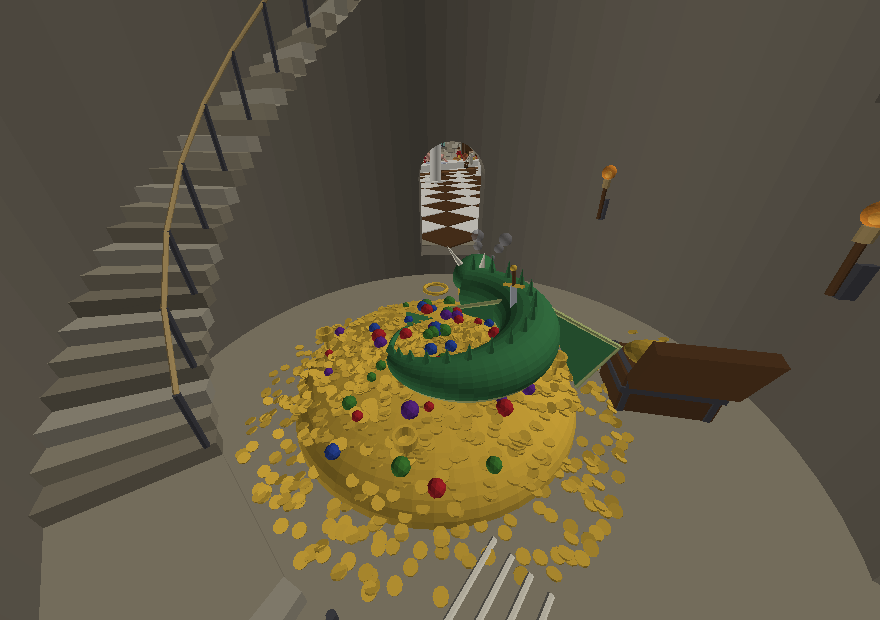
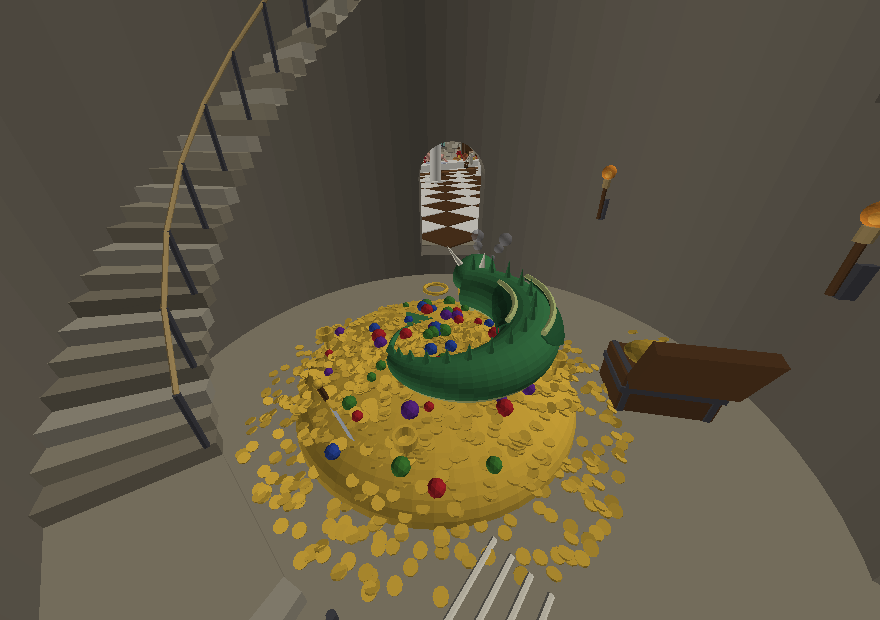
The castle walked through again: stairs that reach the top, stone guards, tidy roofs
- The donjon's floors left their stairwell open again: the inner rim of
  the opening ran the wrong way round, a bow-tie that closed the hole.
- Tower tops: the iron rail across the stair's way out is gone; where
  the platform ends above a two-metre drop a low wall of the tower's own
  stone guards the edge -- round the donjon's lookout stairwell too.
- Attic: the boards are sawn round the stairwell and the towers, the
  stair's top step ends at the floor's edge, and the rail guards the
  deep end of the opening instead of barring the way in.
- Gate towers: each face's slates were lifted off it along its own
  normal, so at the apex their tips poked out into the air; they now stop
  under a lead cap with a finial, and lead rolls cover the hips.
- Treasury: the sword stands in the gold at the foot of the heap instead
  of in the dragon, and the dragon's wings lie folded along its flanks
  instead of cutting through its body.

The documentation's castle pictures are rendered from the new model
(5 511 395 faces, 72 colours; a second build is byte-identical).

Claude-Session: https://claude.ai/code/session_01UNiTu5RKDJkJ2uVYGszDVR

Changed region(s): [[0.5216, 0.429, 0.7057, 0.6129], [0.3682, 0.6435, 0.3989, 0.7048], [0.3375, 0.6129, 0.3682, 0.6435]]

diff --git a/examples/46_castle.py b/examples/46_castle.py
@@ -78,7 +78,7 @@ P = {
     "meat": [150, 78, 52], "apple": [190, 40, 40], "grape": [110, 50, 130],
     "orange": [230, 140, 40], "pig": [226, 168, 150], "cushion": [150, 24, 40],
     "blue": [40, 70, 160], "purple": [96, 40, 140], "flame_core": [255, 230, 120],
-    "bone": [226, 220, 200], "dragon": [56, 120, 70], "dragon_belly": [180, 190, 120],
+    "bone": [226, 220, 200], "dragon": [56, 120, 70], "dragon_belly": [180, 190, 120], "dragon_wing": [38, 88, 52],
     "glass_frame": [60, 60, 66], "skin": [222, 186, 150], "linen": [214, 206, 186],
 }
 P["spire"] = [150, 72, 54]                              # the reddish-brown of the palace spires
@@ -308,27 +308,78 @@ def brick_box(centre, size, name="brick"):
         add.mesh(add.move(add.rotateY(M, face * add.pi / 2), centre))
 
 
-def plank_floor(x0, x1, z0, z1, y, thick=0.04, width=0.3, length=3.0, name="wood", along="z", avoid=None):
+def rect_minus(p, h):
+    """The rectangle p = (x0, x1, z0, z1) with the rectangle h taken away,
+    as up to four rectangles."""
+    px0, px1, pz0, pz1 = p
+    hx0, hx1, hz0, hz1 = h
+    if px1 <= hx0 or px0 >= hx1 or pz1 <= hz0 or pz0 >= hz1:
+        return [p]
+    out = []
+    if hx0 > px0:
+        out.append((px0, hx0, pz0, pz1))
+    if hx1 < px1:
+        out.append((hx1, px1, pz0, pz1))
+    mx0, mx1 = max(px0, hx0), min(px1, hx1)
+    if hz0 > pz0:
+        out.append((mx0, mx1, pz0, hz0))
+    if hz1 < pz1:
+        out.append((mx0, mx1, hz1, pz1))
+    return out
+
+
+def board_minus_circle(p, circle, along):
+    """A board p = (x0, x1, z0, z1) running ``along`` "x" or "z", sawn off
+    square where it meets the circle (cx, cz, r): the cut clears the circle
+    over the whole width of the board."""
+    px0, px1, pz0, pz1 = p
+    cx, cz, r = circle
+    if along == "x":
+        d = min(max(cz, pz0), pz1) - cz
+        if d * d >= r * r:
+            return [p]
+        half = add.sqrt(r * r - d * d)
+        return [q for q in ((px0, min(px1, cx - half), pz0, pz1), (max(px0, cx + half), px1, pz0, pz1)) if q[1] > q[0]]
+    d = min(max(cx, px0), px1) - cx
+    if d * d >= r * r:
+        return [p]
+    half = add.sqrt(r * r - d * d)
+    return [q for q in ((px0, px1, pz0, min(pz1, cz - half)), (px0, px1, max(pz0, cz + half), pz1)) if q[3] > q[2]]
+
+
+def plank_floor(x0, x1, z0, z1, y, thick=0.04, width=0.3, length=3.0, name="wood", along="z", avoid=None,
+                holes=(), rounds=()):
     """A floor of separate boards (staggered, three shades) whose top is at
-    ``y``; ``avoid(x, z)`` says where to leave boards out."""
+    ``y``.  Where the floor is open the boards are sawn off at the edge --
+    ``holes`` are rectangles (x0, x1, z0, z1), a stairwell; ``rounds`` are
+    circles (cx, cz, r), a tower passing through -- rather than left lying
+    across the opening or taken out whole; a board running along an edge is
+    cut lengthwise.  ``avoid(x, z)`` still leaves out whole boards."""
     rows = int((x1 - x0) / width) if along == "z" else int((z1 - z0) / width)
+    span = (z1 - z0) if along == "z" else (x1 - x0)
     for i in range(rows):
         offset = (i % 3) * length / 3.0
         t = -offset
-        while t < ((z1 - z0) if along == "z" else (x1 - x0)):
-            t0, t1 = max(t, 0.0), min(t + length, (z1 - z0) if along == "z" else (x1 - x0))
+        while t < span:
+            t0, t1 = max(t, 0.0), min(t + length, span)
             t += length
             if t1 - t0 < 0.15:
                 continue
-            if along == "z":
-                cx, cz = x0 + (i + 0.5) * width, z0 + (t0 + t1) / 2
-                size = [width - 0.02, thick, t1 - t0 - 0.02]
+            if along == "z":                                         # the board, 1 cm in from its neighbours
+                board = (x0 + i * width + 0.01, x0 + (i + 1) * width - 0.01, z0 + t0 + 0.01, z0 + t1 - 0.01)
             else:
-                cx, cz = x0 + (t0 + t1) / 2, z0 + (i + 0.5) * width
-                size = [t1 - t0 - 0.02, thick, width - 0.02]
-            if avoid and avoid(cx, cz):
+                board = (x0 + t0 + 0.01, x0 + t1 - 0.01, z0 + i * width + 0.01, z0 + (i + 1) * width - 0.01)
+            if avoid and avoid((board[0] + board[1]) / 2, (board[2] + board[3]) / 2):
                 continue
-            add.cuboid([cx, y - thick / 2, cz], size, shade_of(name, int(hash2(i, int(t0 * 10)) * 3)))
+            pieces = [board]
+            for hole in holes:
+                pieces = [q for piece in pieces for q in rect_minus(piece, hole)]
+            for circle in rounds:
+                pieces = [q for piece in pieces for q in board_minus_circle(piece, circle, along)]
+            shade = shade_of(name, int(hash2(i, int(t0 * 10)) * 3))
+            for bx0, bx1, bz0, bz1 in pieces:
+                if bx1 - bx0 > 0.05 and bz1 - bz0 > 0.05:          # no slivers
+                    add.cuboid([(bx0 + bx1) / 2, y - thick / 2, (bz0 + bz1) / 2], [bx1 - bx0, thick, bz1 - bz0], shade)
 
 
 def arms(w, h, thick=0.04, field=None):
@@ -657,7 +708,7 @@ def rook_top(cx, cz, r, r_in, y1, k, name="stone"):
         ring_block(cx, cz, r + 0.1, r + 0.7, a - add.pi / m * 0.5, a + add.pi / m * 0.5, y1 + 0.35, y1 + 1.55, pick(name, i, 1))
 
 
-HEADROOM = 7 * 0.36                                    # the platform stays open over the last 7 steps (2 m of headroom)
+HEADROOM = 9 * 0.36                                    # the platform stays open over the last 9 steps: 9 x 0.28 - 0.35 = 2.17 m of headroom
 
 
 def stair_tower(cx, cz, y_floor, r_out, stops, y_top, start=0.0, rise=0.28, color="stone_dark", r_of=None):
@@ -690,20 +741,61 @@ def stair_tower(cx, cz, y_floor, r_out, stops, y_top, start=0.0, rise=0.28, colo
     return a
 
 
+def guard_wall(cx, cz, a, r0, r1, y, side=-1, h=1.0, t=0.35, name="stone"):
+    """A low stone wall where a floor ends in a drop into a stairwell:
+    along the radius at angle ``a`` from ``r0`` to ``r1``, standing on
+    ``y``, on the ``side`` of that radius where the floor is (-1: towards
+    smaller angles).  Two courses of blocks round a mortar core under a
+    coping of dark stone -- the tower's own masonry, hip-high."""
+    dx, dz = add.cos(a), add.sin(a)
+    lx, lz = -dz * side, dx * side                                         # across the wall, into the floor
+
+    def block(u0, u1, w0, w1, y0, y1, color):
+        add.mesh(solid([(cx + dx * u + lx * w, cz + dz * u + lz * w) for u, w in ((u0, w0), (u1, w0), (u1, w1), (u0, w1))],
+                       y0, y1, color))
+    block(r0, r1, 0.02, t - 0.02, y, y + h - 0.1, P["mortar"])             # the core ...
+    bh = (h - 0.12) / 2
+    for j in range(2):                                                     # ... two courses of blocks, the joints staggered ...
+        u, i = r0 - (BLOCK[0] / 2 if j else 0.0), 0
+        while u < r1:
+            u0, u1 = max(u, r0), min(u + BLOCK[0], r1)
+            if u1 - u0 >= 0.15:
+                block(u0 + 0.02, u1 - 0.02, 0.0, t, y + j * bh + 0.02, y + (j + 1) * bh - 0.02, pick(name, i, j))
+            u += BLOCK[0]
+            i += 1
+    block(r0, r1, -0.04, t + 0.04, y + h - 0.12, y + h, P["stone_dark"])   # ... and the coping
+
+
+def guard_arc(cx, cz, r0, r1, a0, a1, y, h=1.0, name="stone"):
+    """The same low wall bent round the centre: the ring r0..r1 from angle
+    ``a0`` to ``a1`` -- along the inner edge of a stairwell that hugs the wall."""
+    r = (r0 + r1) / 2
+    arcs = max(2, int((a1 - a0) * r1 / 0.3))
+    ring_block(cx, cz, r0 + 0.02, r1 - 0.02, a0, a1, y, y + h - 0.1, P["mortar"], arcs)
+    bh = (h - 0.12) / 2
+    n = max(1, int(round((a1 - a0) * r / BLOCK[0])))
+    step = (a1 - a0) / n
+    for j in range(2):
+        for i in range(n + 1):
+            b0, b1 = max(a0, a0 + (i - 0.5 * j) * step), min(a1, a0 + (i + 1 - 0.5 * j) * step)
+            if (b1 - b0) * r >= 0.15:
+                ring_block(cx, cz, r0, r1, b0 + 0.02 / r, b1 - 0.02 / r, y + j * bh + 0.02, y + (j + 1) * bh - 0.02,
+                           pick(name, i, j), max(1, int((b1 - b0) * r1 / 0.3)))
+    ring_block(cx, cz, r0 - 0.04, r1 + 0.04, a0, a1, y + h - 0.12, y + h, P["stone_dark"], arcs)
+
+
 def platform(cx, cz, r, y, thick, hole_from, hole_to, color=None, r_of=None):
     """A platform -- round, or of the outline ``r_of`` -- with a sector left
-    open where a stair arrives, and a railing round the opening."""
+    open where a stair arrives.  The top step is flush with the platform at
+    ``hole_to``: that is the way out, and it stays open.  At ``hole_from``
+    the stair runs two metres below the edge: a low stone wall guards it."""
     color = color or P["stone_dark"]
     pts = [(cx, cz)]
     for a in outline_angles(hole_to, hole_to + 2 * add.pi - (hole_to - hole_from), 40, r_of):
         rr = r_of(a) if r_of else r
         pts.append((cx + rr * add.cos(a), cz + rr * add.sin(a)))
     add.mesh(solid(pts, y - thick, y, color))
-    for a in (hole_from, hole_to):                                            # rail posts
-        r_edge = (r_of(a) if r_of else r) - 0.3
-        for rr in (0.6, r_edge):
-            add.cylinder([cx + rr * add.cos(a), y, cz + rr * add.sin(a)], [cx + rr * add.cos(a), y + 1.0, cz + rr * add.sin(a)], 0.05, 6, P["iron"])
-        add.cylinder([cx + 0.6 * add.cos(a), y + 1.0, cz + 0.6 * add.sin(a)], [cx + r_edge * add.cos(a), y + 1.0, cz + r_edge * add.sin(a)], 0.04, 6, P["iron"])
+    guard_wall(cx, cz, hole_from, 0.0, (r_of(hole_from) if r_of else r) + 0.15, y)    # from the newel to the parapet ring
 
 
 def round_tower(centre, y0, y1, r, doors, walk=None, y_floor=None, roof_h=8.0, roof_color=None,
@@ -818,12 +910,25 @@ def square_tower(centre, y0, y1, w, doors, walk_stops, roof_h, name="stone", win
     add.cuboid([cx, base + 2.9, cz], [w + 0.8, 0.25, w + 0.8], P["wood_dark"])
     e = w + 0.6
     add.pyramid([cx, base + 3.0 + e / 2, cz], e, roof_h, P["slate"])
-    apex = [cx, base + 3.0 + roof_h, cz]
+    top = base + 3.0 + roof_h
+    apex = [cx, top, cz]
+    f = 1 - 0.55 / roof_h                                                       # the slates stop under the cap: each face's are lifted
+    hip = add.sqrt(2) * e / 2                                                   # off it along its own normal, so their tips would not
+    m = [roof_h / add.sqrt(roof_h ** 2 + hip ** 2), hip / add.sqrt(roof_h ** 2 + hip ** 2)]    # meet at the apex
     for i in range(4):                                                          # slates on the four faces
         a0, a1 = i * add.pi / 2, (i + 1) * add.pi / 2
         c0 = [cx + e / 2 * add.sqrt(2) * add.cos(a0 + add.pi / 4), base + 3.0, cz + e / 2 * add.sqrt(2) * add.sin(a0 + add.pi / 4)]
         c1 = [cx + e / 2 * add.sqrt(2) * add.cos(a1 + add.pi / 4), base + 3.0, cz + e / 2 * add.sqrt(2) * add.sin(a1 + add.pi / 4)]
-        tile_face(c1, c0, apex, apex, size=(0.45, 0.4), colours="slate")
+        u0 = [c0[k] + (apex[k] - c0[k]) * f for k in range(3)]
+        u1 = [c1[k] + (apex[k] - c1[k]) * f for k in range(3)]
+        tile_face(c1, c0, u0, u1, size=(0.45, 0.4), colours="slate")
+        ca, sa = add.cos(a0 + add.pi / 4), add.sin(a0 + add.pi / 4)             # a lead roll over the hip, where the
+        lift = [m[0] * ca * 0.07, m[1] * 0.07, m[0] * sa * 0.07]                # slates of two faces meet
+        tip = [c0[k] + (apex[k] - c0[k]) * 0.95 for k in range(3)]
+        add.cylinder([c0[k] + lift[k] for k in range(3)], [tip[k] + lift[k] for k in range(3)], 0.09, 6, P["iron"])
+    add.pyramid([cx, top - 0.1, cz], 1.2, 1.2, P["iron"])                       # a lead cap over the apex, and a finial
+    add.cylinder([cx, top + 0.4, cz], [cx, top + 1.5, cz], 0.05, 8, P["iron"])
+    add.sphere([cx, top + 1.55, cz], 0.14, 8, P["gold"])
     return arrive
 
 
@@ -1707,7 +1812,8 @@ for i in range(int((KX1 - KX0 - 2 * WT) / 2)):
 # the floor between the storeys, its beams below, and the attic floor with a hatch
 slab = add.make(add.cuboid, [0, KY + HALL_H + SLAB / 2 - 0.02, (KZ0 + KZ1) / 2], [KX1 - KX0 - 0.4, SLAB - 0.04, KZ1 - KZ0 - 0.4], P["wood_dark"])
 add.mesh(add.difference(slab, *CUT))
-plank_floor(KX0 + 0.2, KX1 - 0.2, KZ0 + 0.2, KZ1 - 0.2, KY + HALL_H + SLAB, avoid=lambda x, z: near_tower(x, z, 0.2))
+TOWER_ROUNDS = [(cx, cz, r + 0.05) for cx, cz, r in CYLS]         # where the towers pass through the floors
+plank_floor(KX0 + 0.2, KX1 - 0.2, KZ0 + 0.2, KZ1 - 0.2, KY + HALL_H + SLAB, rounds=TOWER_ROUNDS)
 for i in range(int((KZ1 - KZ0) / 3)):
     z = KZ0 + WT + 1.5 + i * 3
     x0, x1 = KX0 + WT - 0.3, KX1 - WT + 0.3
@@ -1721,13 +1827,12 @@ attic = add.make(add.cuboid, [0, EAVE - 0.22, (KZ0 + KZ1) / 2], [KX1 - KX0 - 0.4
 HOLE = (HATCH[0] - 1.1, HATCH[0] + 1.1, HATCH[1] - 0.6, HATCH[1] + 4.6)          # the stairwell in the attic floor
 attic = add.difference(attic, add.make(add.cuboid, [HATCH[0], EAVE - 0.2, (HOLE[2] + HOLE[3]) / 2], [2.2, 1, HOLE[3] - HOLE[2]]), *CUT)
 add.mesh(attic)
-plank_floor(KX0 + 0.2, KX1 - 0.2, KZ0 + 0.2, KZ1 - 0.2, EAVE, along="x",
-            avoid=lambda x, z: near_tower(x, z, 0.2) or (HOLE[0] - 0.15 < x < HOLE[1] + 0.15 and HOLE[2] - 0.15 < z < HOLE[3] + 0.15))
-for x in (HOLE[0] - 0.1, HOLE[1] + 0.1):                                        # a rail round the stairwell
-    for z in (HOLE[2] - 0.1, (HOLE[2] + HOLE[3]) / 2, HOLE[3] + 0.1):
-        add.cuboid([x, EAVE + 0.45, z], [0.08, 0.9, 0.08], P["wood_dark"])
-    add.cuboid([x, EAVE + 0.9, (HOLE[2] + HOLE[3]) / 2], [0.06, 0.06, HOLE[3] - HOLE[2] + 0.3], P["wood_dark"])
-add.cuboid([HATCH[0], EAVE + 0.9, HOLE[2] - 0.1], [HOLE[1] - HOLE[0] + 0.3, 0.06, 0.06], P["wood_dark"])
+plank_floor(KX0 + 0.2, KX1 - 0.2, KZ0 + 0.2, KZ1 - 0.2, EAVE, along="x", holes=[HOLE], rounds=TOWER_ROUNDS)   # sawn round the stairwell
+for x in (HOLE[0] - 0.1, HOLE[1] + 0.1):                                        # a rail round the stairwell: along both
+    for z in (HOLE[2] - 0.1, (HOLE[2] + HOLE[3]) / 2, HOLE[3] + 0.1):           # sides and across the far end, where the
+        add.cuboid([x, EAVE + 0.45, z], [0.08, 0.9, 0.08], P["wood_dark"])     # stair is deep below; the near end, where
+    add.cuboid([x, EAVE + 0.9, (HOLE[2] + HOLE[3]) / 2], [0.06, 0.06, HOLE[3] - HOLE[2] + 0.3], P["wood_dark"])   # the top
+add.cuboid([HATCH[0], EAVE + 0.9, HOLE[3] + 0.1], [HOLE[1] - HOLE[0] + 0.3, 0.06, 0.06], P["wood_dark"])    # step is, is the way in
 flush("palace: floors")
 
 # the three corner towers: a door to the courtyard, doors into the hall
@@ -1753,8 +1858,8 @@ def disc_with_hole(cx, cz, r, y, thick, r_hole, a_from, a_to, color):
         a = a_to + (2 * add.pi - (a_to - a_from)) * j / n
         pts.append((cx + r * add.cos(a), cz + r * add.sin(a)))
     m = 8
-    for j in range(m + 1):                                             # back along the inner rim
-        a = a_from + (a_to - a_from) * (1 - j / float(m))
+    for j in range(m + 1):                                             # then along the inner rim, past the stairwell
+        a = a_from + (a_to - a_from) * j / float(m)
         pts.append((cx + r_hole * add.cos(a), cz + r_hole * add.sin(a)))
     add.mesh(solid(pts, y - thick, y, color))
 
@@ -1807,13 +1912,15 @@ add.cylinder([DON[0], G - 0.5, DON[1]], [DON[0], G + 0.1, DON[1]], DON_IN + 0.2,
 a = wall_stair(DON[0], DON[1], G + 0.1, KY, DON_IN - 1.7, DON_IN - 0.05, add.pi * 1.35)       # up to the hall door ...
 add.mesh(solid([(DON[0] + rr * add.cos(aa), DON[1] + rr * add.sin(aa)) for rr, aa in                 # ... a landing there ...
                 ((DON_IN - 1.7, a), (DON_IN - 0.05, a), (DON_IN - 0.05, a + 0.5), (DON_IN - 1.7, a + 0.5))], KY - 0.24, KY, P["stone_dark"]))
-WALL_HEAD = 8 * (0.3 / (DON_IN - 0.875))                                                        # 8 steps of the wall stair: 2 m of headroom
+WALL_HEAD = 10 * (0.3 / (DON_IN - 0.875))                                                       # 10 steps of the wall stair: 10 x 0.24 - 0.4 = 2 m of headroom
 a = wall_stair(DON[0], DON[1], KY, F1, DON_IN - 1.7, DON_IN - 0.05, a + 0.5)                   # ... and on to the armoury
 disc_with_hole(DON[0], DON[1], DON_IN + 0.2, F1, 0.4, DON_IN - 1.7, a - WALL_HEAD, a, P["wood"])
 a = wall_stair(DON[0], DON[1], F1, F2, DON_IN - 1.7, DON_IN - 0.05, a + 0.1)
 disc_with_hole(DON[0], DON[1], DON_IN + 0.2, F2, 0.4, DON_IN - 1.7, a - WALL_HEAD, a, P["wood"])
 a = wall_stair(DON[0], DON[1], F2, DON_TOP, DON_IN - 1.7, DON_IN - 0.05, a + 0.1)
 disc_with_hole(DON[0], DON[1], DON_IN + 0.2, DON_TOP, 0.4, DON_IN - 1.7, a - WALL_HEAD, a, P["stone_dark"])
+guard_wall(DON[0], DON[1], a - WALL_HEAD, DON_IN - 2.05, DON_IN + 0.35, DON_TOP)                # the lookout's stairwell: a low stone
+guard_arc(DON[0], DON[1], DON_IN - 2.05, DON_IN - 1.7, a - WALL_HEAD, a - 0.15, DON_TOP)        # wall round the drop, open where one arrives
 kk = k_(28)
 rook_top(DON[0], DON[1], DON_R, DON_IN + 0.2, DON_TOP, kk)                                     # corbels and merlons, then the lantern and spire
 for i in range(10):                                                                   # the lantern: stout posts and braces
@@ -2628,7 +2735,7 @@ for x in (-16.5, 16.5):
     torch([x, FLOOR2 + 2.6, DZ1 - 0.24], add.pi)
 # the wooden stair up to the attic hatch (the hatch is in the attic floor at HATCH)
 STAIR_STEPS = 14
-STAIR_FOOT = HATCH[1] + 0.2 + STAIR_STEPS * 0.5                       # the top step ends inside the stairwell
+STAIR_FOOT = HOLE[2] + STAIR_STEPS * 0.5                              # the top step ends where the attic floor begins
 add.stairs([HATCH[0], FLOOR2, STAIR_FOOT], STAIR_STEPS, 1.8, UPPER_H / STAIR_STEPS, 0.5, P["wood"], direction=(0, 0, -1))
 for s in (-1, 1):                                                     # a handrail on posts
     rail = [[HATCH[0] + s * 0.95, FLOOR2 + 1.0 + UPPER_H * t, STAIR_FOOT - STAIR_STEPS * 0.5 * t] for t in (0.0, 0.5, 1.0)]
@@ -2731,7 +2838,9 @@ for i in range(4):
     a = 1.1 + i * 1.5
     x, z = HEAP[0] + 2.1 * add.cos(a), HEAP[2] + 2.1 * add.sin(a)
     goblet([x, heap_y(x, z), z])
-sword([HEAP[0] - 1.0, heap_y(HEAP[0] - 1.0, HEAP[2] + 1.0) + 0.02, HEAP[2] + 1.0], (0.2, 1, 0.1))
+SWORD_A = 4.5                                                                      # a sword stuck in the gold at the foot of
+sx, sz = HEAP[0] + 2.1 * add.cos(SWORD_A), HEAP[2] + 2.1 * add.sin(SWORD_A)       # the heap, leaning out -- a good metre
+sword([sx, heap_y(sx, sz) - 0.12, sz], (0.22 * add.cos(SWORD_A), 1, 0.22 * add.sin(SWORD_A)))   # clear of the dragon on top
 chest([TR[0] - 2.8, TR[1], TR[2] + 2.4], 0.6, open_lid=True)                       # an open chest, gold spilling out
 add.mesh(add.move(add.stretch(add.make(add.sphere, [0, 0, 0], 0.7, 8, P["gold"]), [1.0, 0.5, 0.7], (0, 0, 0)), [TR[0] - 2.8, TR[1] + 0.75, TR[2] + 2.4]))
 for i in range(12):
@@ -2767,6 +2876,33 @@ def dragon(at, facing=0.0, size=1.0):
         return P["dragon_belly"] if p[1] < s[1] - 0.12 else P["dragon"]
 
     add.mesh(add.color_by(body, belly))
+    fine = [spine(i / 200.0) for i in range(201)]                          # metres along the spine, to lay the wings
+    arc = [0.0]                                                            # back along the curled body
+    for i in range(200):
+        arc.append(arc[-1] + vlen(vsub(fine[i + 1], fine[i])))
+
+    def on_flank(side, u, d, w):
+        """A point of a wing folded against the flank: ``u`` metres back from
+        the shoulders along the spine, ``d`` metres down the side from the
+        wing's top edge, ``w`` off the skin.  The wing follows the curled
+        body round, so no part of it cuts through it."""
+        s = arc[24] + u                                                    # the shoulders: t = 0.12
+        i = min(199, max(0, [k for k in range(200) if arc[k] <= s][-1]))
+        t = (i + (s - arc[i]) / max(1e-9, arc[i + 1] - arc[i])) / 200.0
+        c, q0, q1 = spine(t), spine(max(0.0, t - 0.01)), spine(min(1.0, t + 0.01))
+        hx, hz = q1[0] - q0[0], q1[2] - q0[2]
+        L = add.sqrt(hx * hx + hz * hz) or 1.0
+        r = radius(t) + 0.05
+        phi = 1.05 - d / r                                                 # from high on the side downwards
+        return [c[0] + side * hz / L * (r + w) * add.cos(phi), c[1] + (r + w) * add.sin(phi),
+                c[2] - side * hx / L * (r + w) * add.cos(phi)]
+
+    for side in (-1, 1):                                                   # the wings, folded along both flanks
+        wing = add.make(add.parametric, lambda a, b, side=side: on_flank(side, 1.8 * a, b * (0.15 + 0.6 * add.sin(add.pi * a) ** 0.8)
+                                                                         * (1 - 0.15 * abs(add.sin(3 * add.pi * a))), 0.0),
+                        0, 1, 18, 0, 1, 4, P["dragon_wing"], thickness=0.03)          # darker, the edge in three scallops
+        add.mesh(add.fix_normals(wing))                                    # a closed shell, turned outwards
+        add.polyline([on_flank(side, 1.8 * j / 10.0, 0.0, 0.06) for j in range(11)], 0.05, 8, P["dragon_belly"])
     for i in range(0, 34, 2):                                               # spines along the back
         p = pts[i]
         r = radius(i / 40.0)
@@ -2785,11 +2921,6 @@ def dragon(at, facing=0.0, size=1.0):
         add.capsule([paw[0] - 0.6, paw[1] + 0.1, paw[2]], paw, 0.16, 12, P["dragon"])
         for j in range(3):
             add.cone([paw[0] + 0.1, paw[1] - 0.03, paw[2] - 0.12 + j * 0.12], [paw[0] + 0.4, paw[1] - 0.1, paw[2] - 0.15 + j * 0.15], 0.04, 5, P["bone"])
-        wing = add.make(add.prism, [[0, 0], [1.8, 0.3], [0.9, 1.1]], 0.05, P["dragon"], (0, 0, 0), (0, 0, 1))
-        wing.extend(add.make(add.polyline, [[0, 0, 0], [0.9, 1.1, 0], [1.8, 0.3, 0]], 0.05, 8, P["dragon_belly"]))
-        wing = add.rotateZ(wing, -1.25)                                       # folded down along the flank
-        wing = add.rotateY(wing, add.pi / 2 + (add.pi if s > 0 else 0))
-        add.mesh(add.move(wing, [pts[8][0], pts[8][1] + 0.35, pts[8][2] + s * 0.3]))
     M = add.pop()
     M = add.stretch(M, [size, size, size], (0, 0, 0))
     add.mesh(add.move(add.rotateY(M, facing), at))
@@ -3674,7 +3805,7 @@ armour([a[0] + d[0] * L * 0.6, WALK, a[2] + d[2] * L * 0.6], add.atan2(-d[0], -d
 lying_armour([a[0] + d[0] * L * 0.3, WALK, a[2] + d[2] * L * 0.3], add.atan2(d[0], d[2]))        # ... and one asleep on it
 for k, c in enumerate(CORNERS):                                                              # a crossbowman on every tower top,
     aa = PHI[k]                                                                              # at the parapet, facing out ...
-    if (aa - (ARRIVE[k] - HEADROOM)) % (2 * add.pi) < HEADROOM + 0.6:                        # ... clear of the stair opening
+    if (aa - (ARRIVE[k] - HEADROOM - 0.35)) % (2 * add.pi) < HEADROOM + 0.95:                # ... clear of the stairwell and its wall
         aa = ARRIVE[k] + 0.7
     armour([c[0] + 2.3 * add.cos(aa), TOWER_TOP, c[2] + 2.3 * add.sin(aa)], add.atan2(add.cos(aa), add.sin(aa)),
            weapon="crossbow", shield=False)
